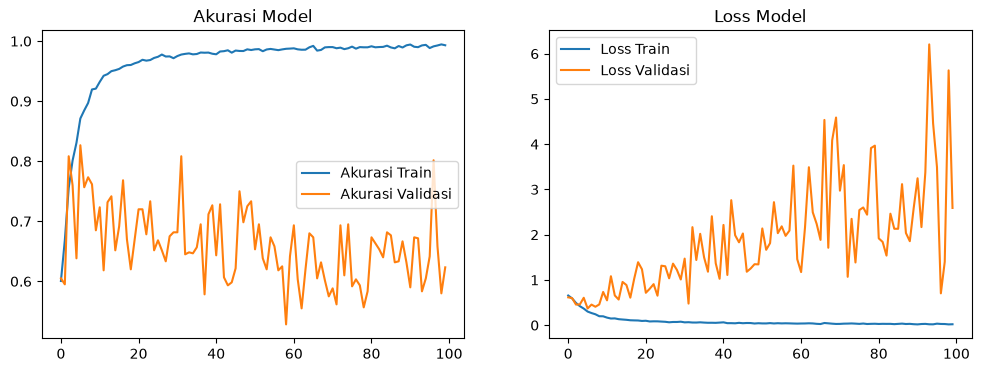
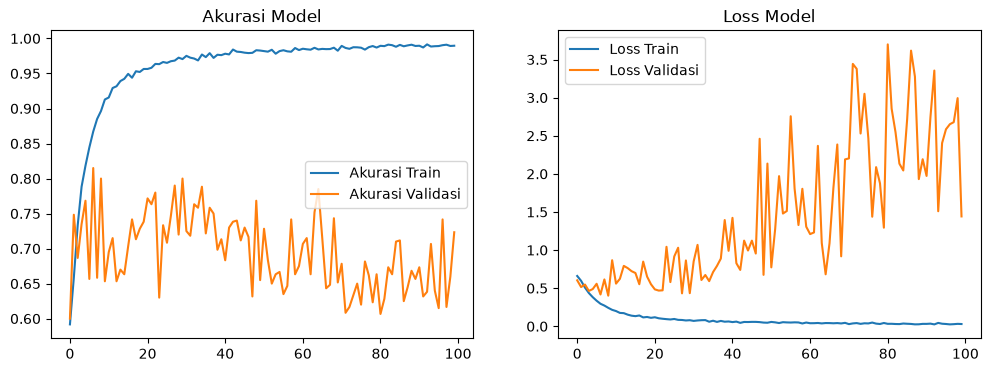
update flowchart dan perbaikan project

diff --git a/app_gui.py b/app_gui.py
@@ -34,15 +34,24 @@ if model is None:
     st.stop() # Hentikan aplikasi jika model tidak ada
 
 # =========================
-# AMBIL CLASS INDEX (Untuk Fallback saja)
+# FUNGSI VALIDASI
 # =========================
-try:
-    # Beberapa model h5 menyimpan metadata nama kelas
-    class_names = list(model.class_names)
-except:
-    # Fallback manual berdasarkan asumsi urutan alfabet folder:
-    # 0 = fractured, 1 = not_fractured
-    class_names = ["fractured", "not_fractured"] 
+def is_valid_xray_heuristic(img_pil):
+    """
+    Fungsi sederhana untuk mengecek apakah gambar adalah hitam-putih (grayscale).
+    X-Ray umumnya memiliki nilai channel R, G, B yang sama atau sangat mirip.
+    """
+    img_np = np.array(img_pil.convert("RGB")).astype(float)
+    r, g, b = img_np[:,:,0], img_np[:,:,1], img_np[:,:,2]
+    
+    # Menghitung perbedaan rata-rata antar channel warna
+    diff_rg = np.mean(np.abs(r - g))
+    diff_rb = np.mean(np.abs(r - b))
+    
+    # Jika perbedaan channel warna tinggi, berarti gambar berwarna (bukan X-Ray)
+    if diff_rg > 30.0 or diff_rb > 30.0:
+        return False
+    return True
 
 # =========================
 # UPLOAD GAMBAR
@@ -55,58 +64,81 @@ uploaded_file = st.file_uploader(
 if uploaded_file is not None:
     # Tampilkan gambar yang diunggah
     image = Image.open(uploaded_file)
-    st.image(image, caption="Gambar X-Ray yang diunggah", use_container_width=True)
+    st.image(image, caption="Gambar yang diunggah", use_container_width=True)
+    
+    # Validasi apakah gambar kemungkinan besar X-Ray (Hitam-Putih)
+    if not is_valid_xray_heuristic(image):
+        st.warning("⚠️ **Peringatan:** Gambar terdeteksi memiliki warna (bukan X-Ray hitam-putih murni). Sistem menghentikan proses untuk mencegah hasil yang tidak akurat.")
+        
+        # Tambahkan tombol centang untuk memaksa AI memproses gambar
+        force_process = st.checkbox("Saya yakin ini adalah gambar X-Ray digital, lanjutkan analisis.")
+        
+        # Jika belum dicentang, hentikan aplikasi di sini
+        if not force_process:
+            st.stop()
 
     # =========================
     # PREPROCESSING GAMBAR
     # =========================
-    # 1. Paksa ke RGB (menghindari error jika input grayscale atau RGBA)
     img = image.convert("RGB")
-    
-    # 2. Resize sesuai input model saat training
     img = img.resize((224, 224))
-
-    # 3. Ubah ke array dan normalisasi (harus sama dengan ImageDataGenerator training)
     img_array = np.array(img).astype("float32") / 255.0
-    
-    # 4. Tambah dimensi batch (Model expect shape (1, 224, 224, 3))
     img_array = np.expand_dims(img_array, axis=0)
 
     # =========================
-    # PROSES PREDIKSI
+    # PROSES PREDIKSI YANG DIPERBAIKI
     # =========================
     with st.spinner("AI sedang menganalisis gambar..."):
         try:
-            # Output model biner sigmoid adalah nilai tunggal probabilitas kelas 1
-            prediction_score = model.predict(img_array)[0][0]
+            # Ambil seluruh array output dari AI (bukan cuma index [0][0])
+            raw_prediction = model.predict(img_array)[0]
+            
+            # --- TAMPILKAN NILAI MENTAH (DEBUG) ---
+            st.code(f"Nilai mentah dari AI: {raw_prediction}", language="python")
+
+            # Cek tipe output model (Sigmoid vs Softmax)
+            if len(raw_prediction) == 2:
+                # Jika AI mengeluarkan 2 angka (Categorical/Softmax)
+                class_index = np.argmax(raw_prediction) # Pilih index dengan nilai tertinggi
+                confidence = raw_prediction[class_index] * 100
+            else:
+                # Jika AI mengeluarkan 1 angka (Binary/Sigmoid)
+                score = raw_prediction[0]
+                if score >= 0.5:
+                    class_index = 1
+                    confidence = score * 100
+                else:
+                    class_index = 0
+                    confidence = (1 - score) * 100
+
         except Exception as e:
             st.error(f"Gagal melakukan prediksi: {e}")
             st.write(traceback.format_exc())
             st.stop()
 
     # =========================
-    # LOGIKA HASIL (FINAL - MAPPING ASLI)
+    # LOGIKA HASIL (DENGAN THRESHOLD)
     # =========================
-    # Mapping Keras berdasarkan abjad folder:
-    # 0 = fractured
-    # 1 = not_fractured
-    
     st.subheader("📋 Hasil Analisis AI")
 
-    if prediction_score >= 0.5:
-        # Nilai mendekati 1 -> not_fractured (Normal)
+    # Mapping Keras berdasarkan urutan folder saat training
+    if class_index == 1:
         label = "NORMAL (TIDAK PATAH)"
-        confidence = prediction_score * 100
-
-        st.success(f"🟢 HASIL: {label}")
-        st.write(f"Tingkat Kepercayaan (Confidence): **{confidence:.2f}%**")
-        st.info("Tidak ditemukan indikasi fraktur yang jelas pada gambar X-Ray ini.")
-
+        is_fractured = False
     else:
-        # Nilai mendekati 0 -> fractured (Patah)
         label = "FRAKTUR (PATAH TULANG)"
-        confidence = (1 - prediction_score) * 100
+        is_fractured = True
 
-        st.error(f"🔴 HASIL: {label}")
-        st.write(f"Tingkat Kepercayaan (Confidence): **{confidence:.2f}%**")
-        st.warning("Terindikasi adanya retakan atau kerusakan serius pada struktur tulang.")
+    # --- FILTER THRESHOLD UNTUK GAMBAR ANEH ---
+    if confidence < 55.0:
+        st.warning(f"⚠️ **AI Ragu-ragu!** (Confidence: {confidence:.2f}%)")
+        st.info("Gambar ini kemungkinan besar **BUKAN gambar X-Ray tulang** yang valid, atau model AI gagal mengenali pola tulang dengan baik.")
+    else:
+        if is_fractured:
+            st.error(f"🔴 HASIL: {label}")
+            st.write(f"Tingkat Kepercayaan (Confidence): **{confidence:.2f}%**")
+            st.warning("Terindikasi adanya retakan atau kerusakan serius pada struktur tulang.")
+        else:
+            st.success(f"🟢 HASIL: {label}")
+            st.write(f"Tingkat Kepercayaan (Confidence): **{confidence:.2f}%**")
+            st.info("Tidak ditemukan indikasi fraktur yang jelas pada gambar X-Ray ini.")

diff --git a/cek_header.py b/cek_header.py
@@ -1,0 +1,2 @@
+with open("hasil_training/bone_fracture_model.h5", "rb") as f:
+    print(f.read(20))